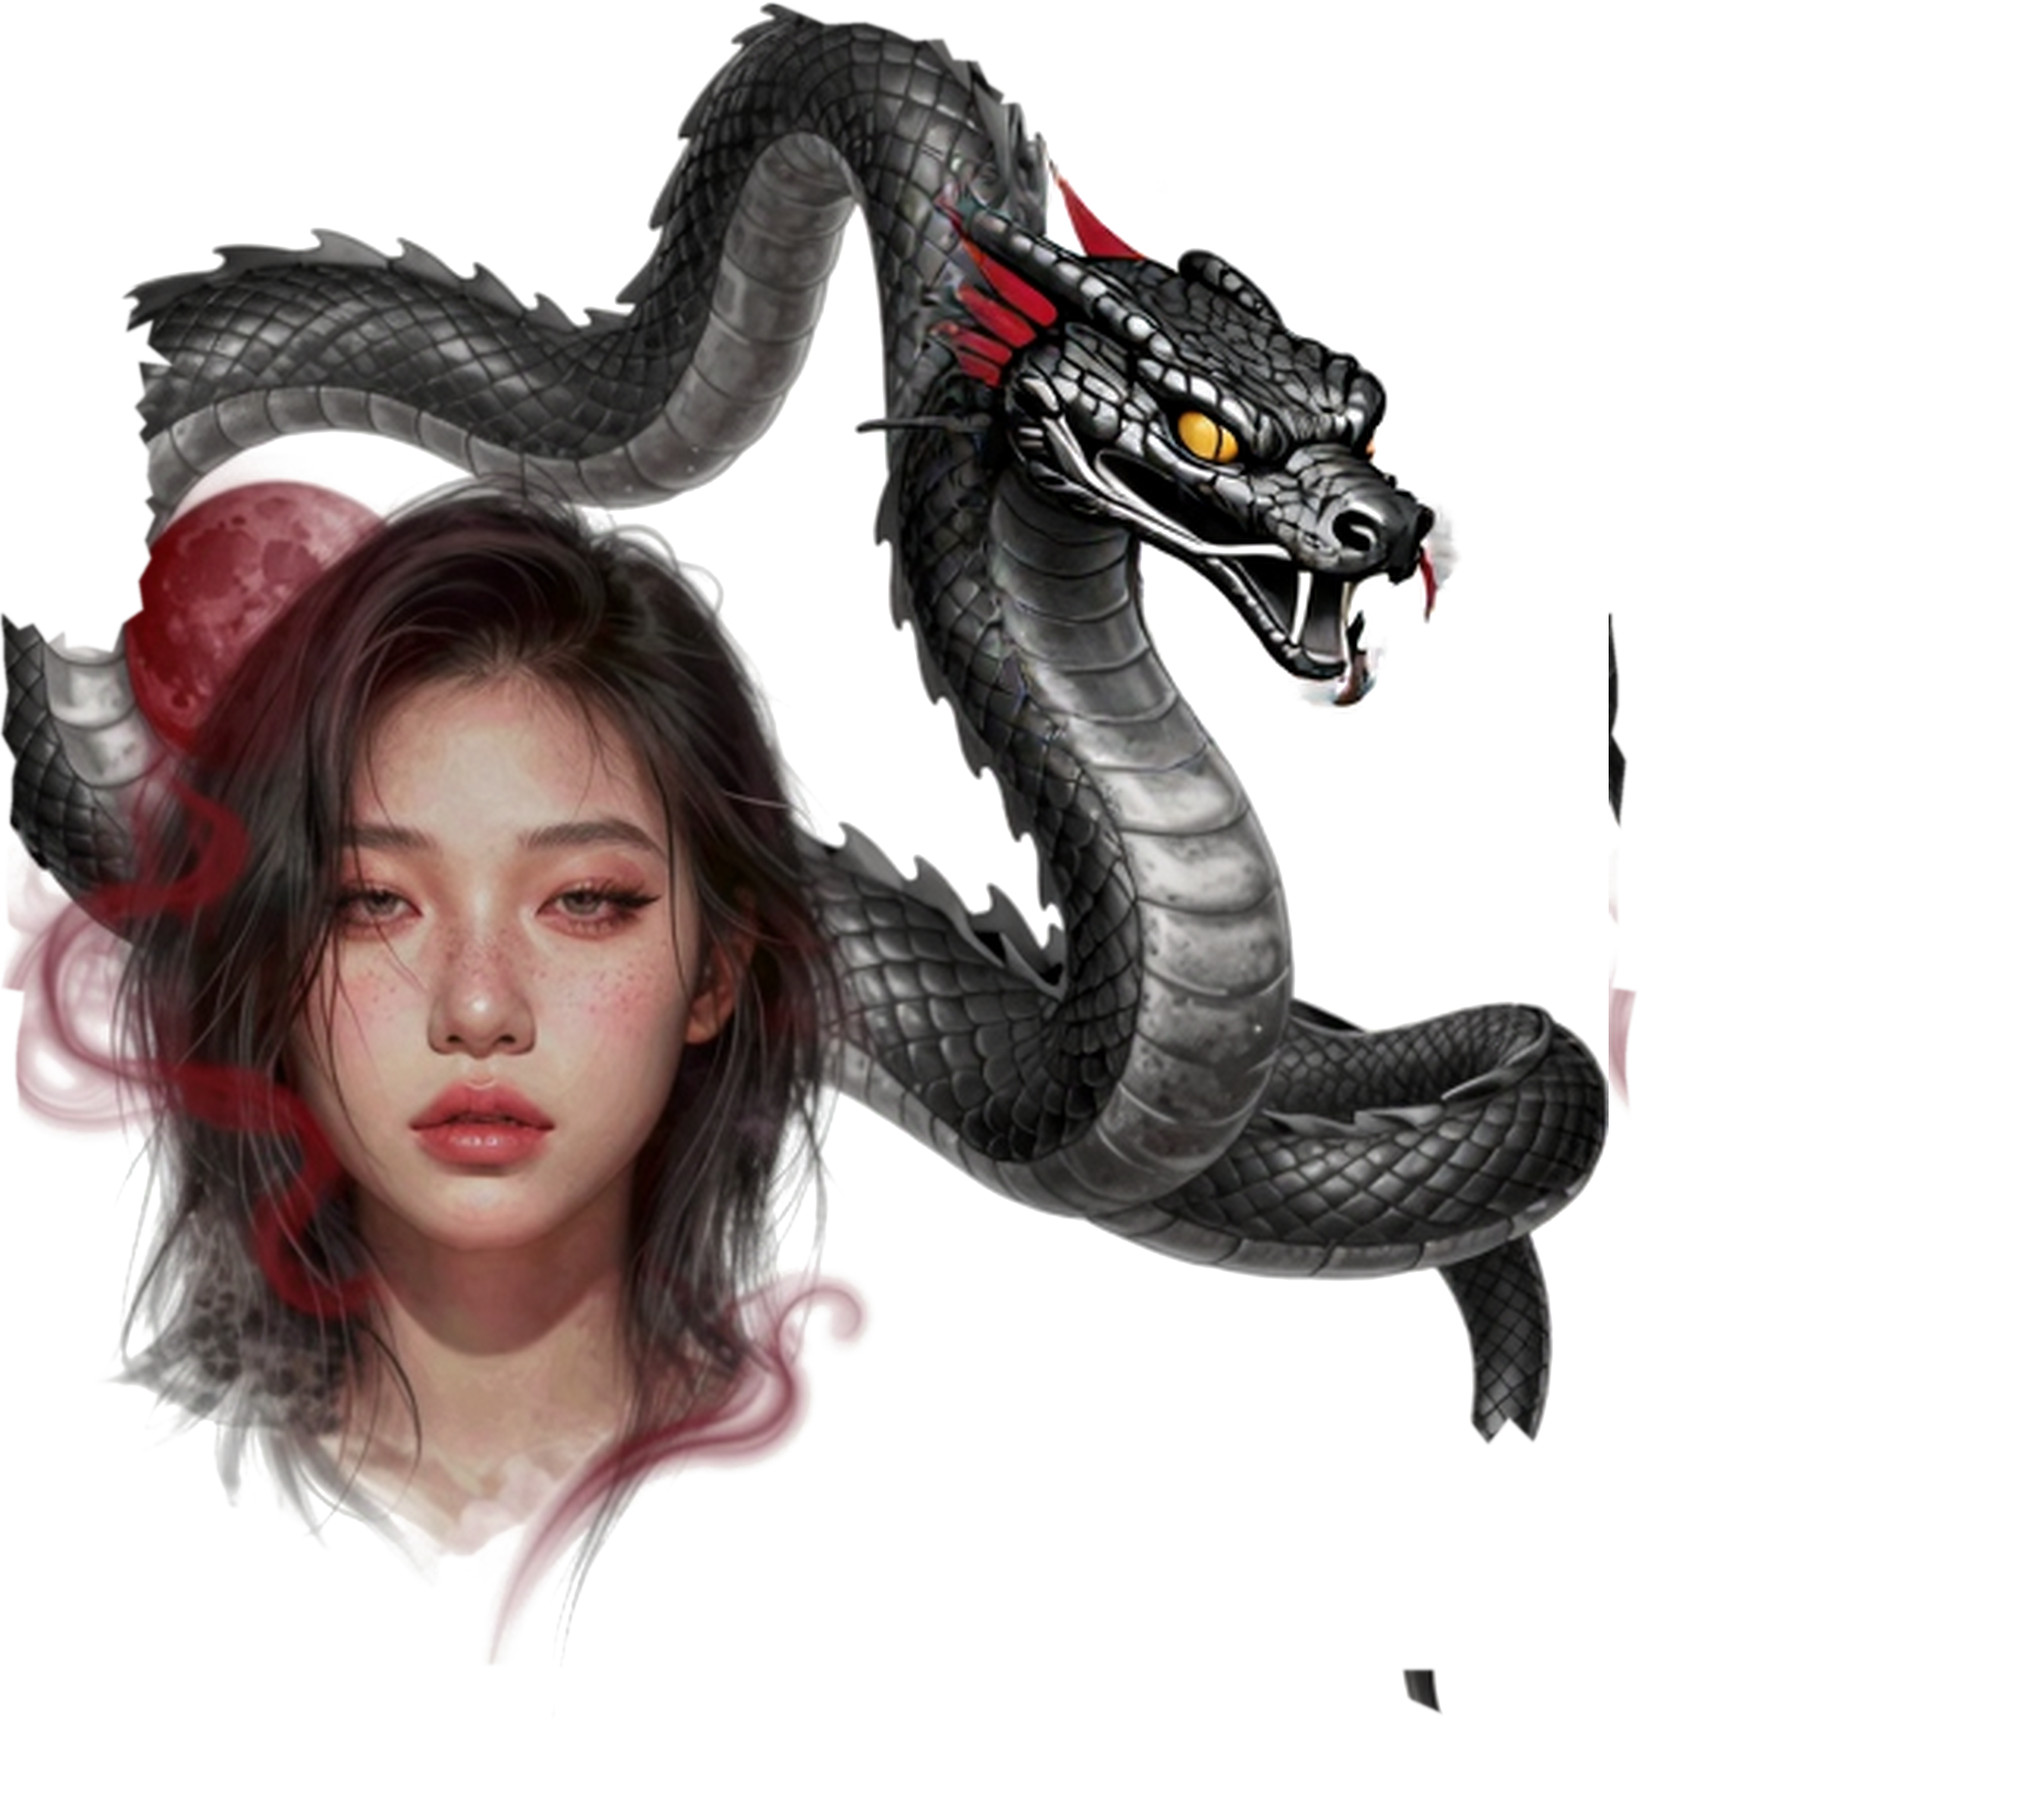
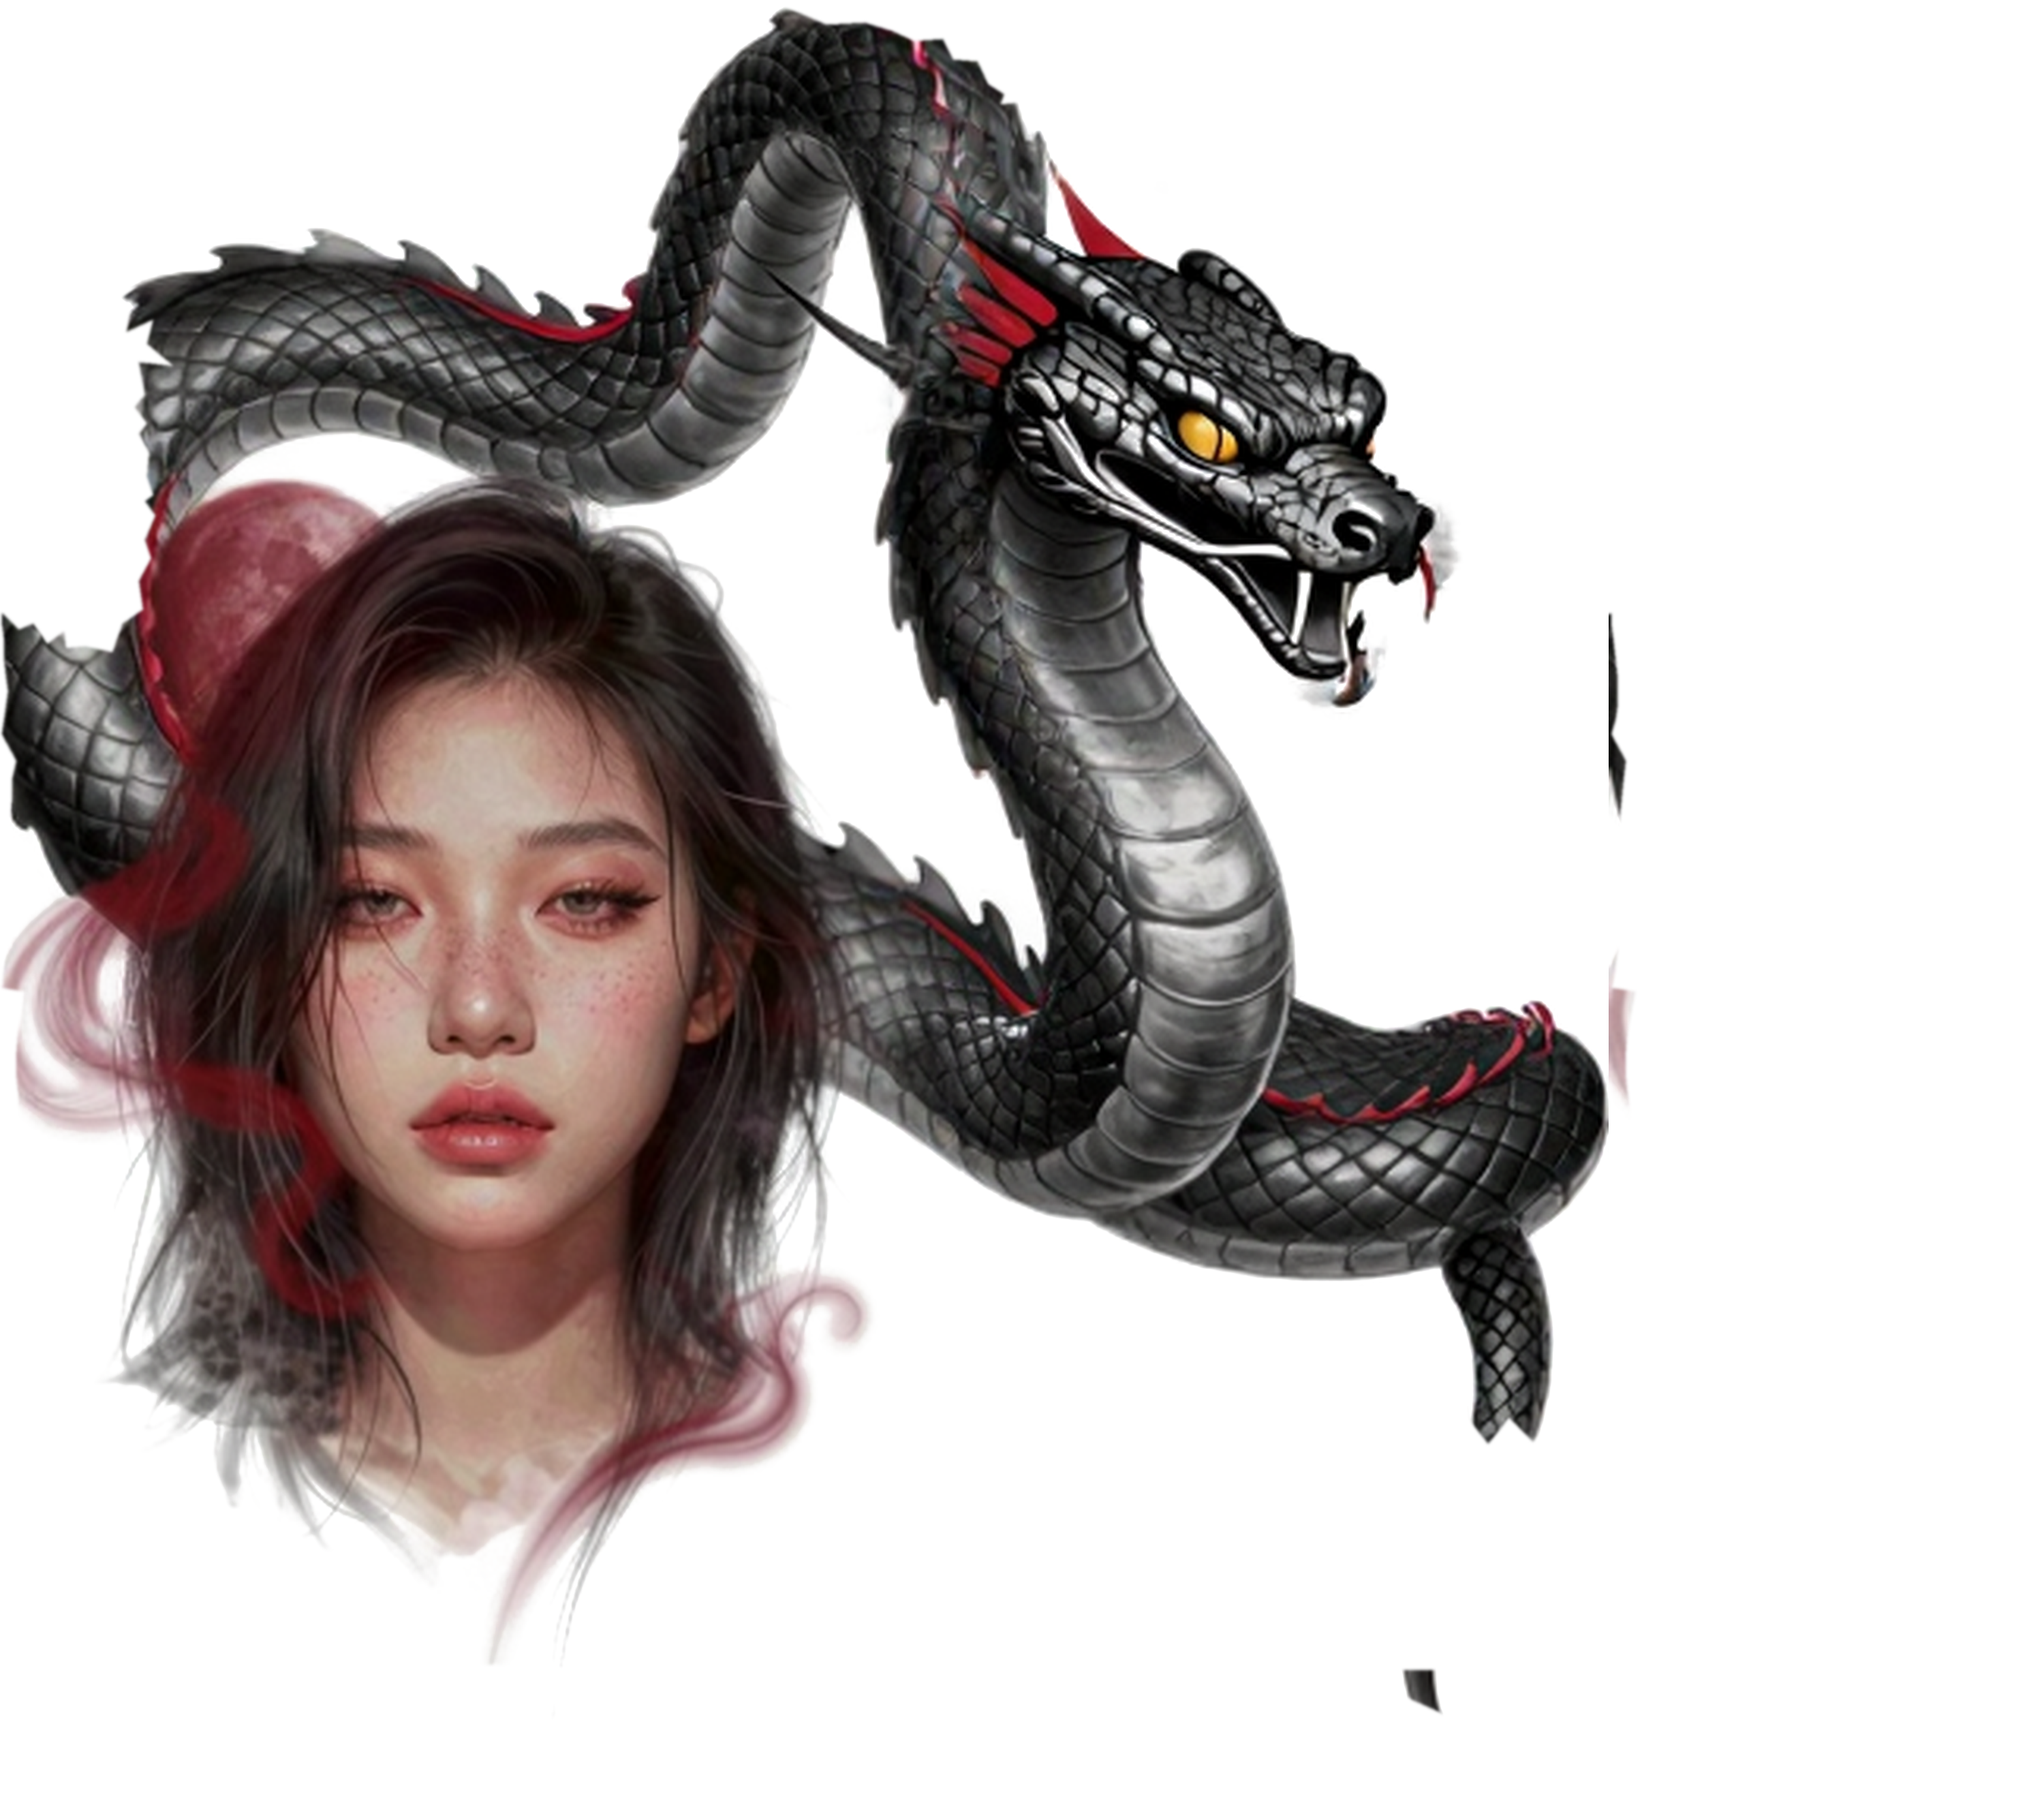
Tutu nodes: dragon_body zone also leaves out the moon (round 19); round 19 example
Claude-Session: https://claude.ai/code/session_01SVnjTQfE8Du7CnCgFi8Pj9

Changed region(s): [[0.0, 0.0, 0.496, 0.5888], [0.403, 0.4029, 0.806, 0.8057]]

diff --git a/tutu/comfy_nodes/core.py b/tutu/comfy_nodes/core.py
@@ -173,6 +173,9 @@ def zone_mask(c: Canvas, zones: list[str], feather: int = 40, on_body: bool = Tr
             for x, y in c.dpx(_spline(pts, 40)):
                 d.ellipse((x - r, y - r, x + r, y + r), fill=255)
         d.polygon(c.dpx(CANVASES[c.name]["zones"]["dragon_head"]), fill=0)
+        # r19: the body passes over the moon, and the accent pass repainted it -> keep the moon out too
+        (x0, y0, x1, y1), _ = L["ellipses"][1]
+        d.ellipse(c.dpx([(x0, y0), (x1, y1)]), fill=0)
     if feather > 0:
         m = m.filter(ImageFilter.GaussianBlur(feather / 2))
     a = np.asarray(m, np.float32) / 255
